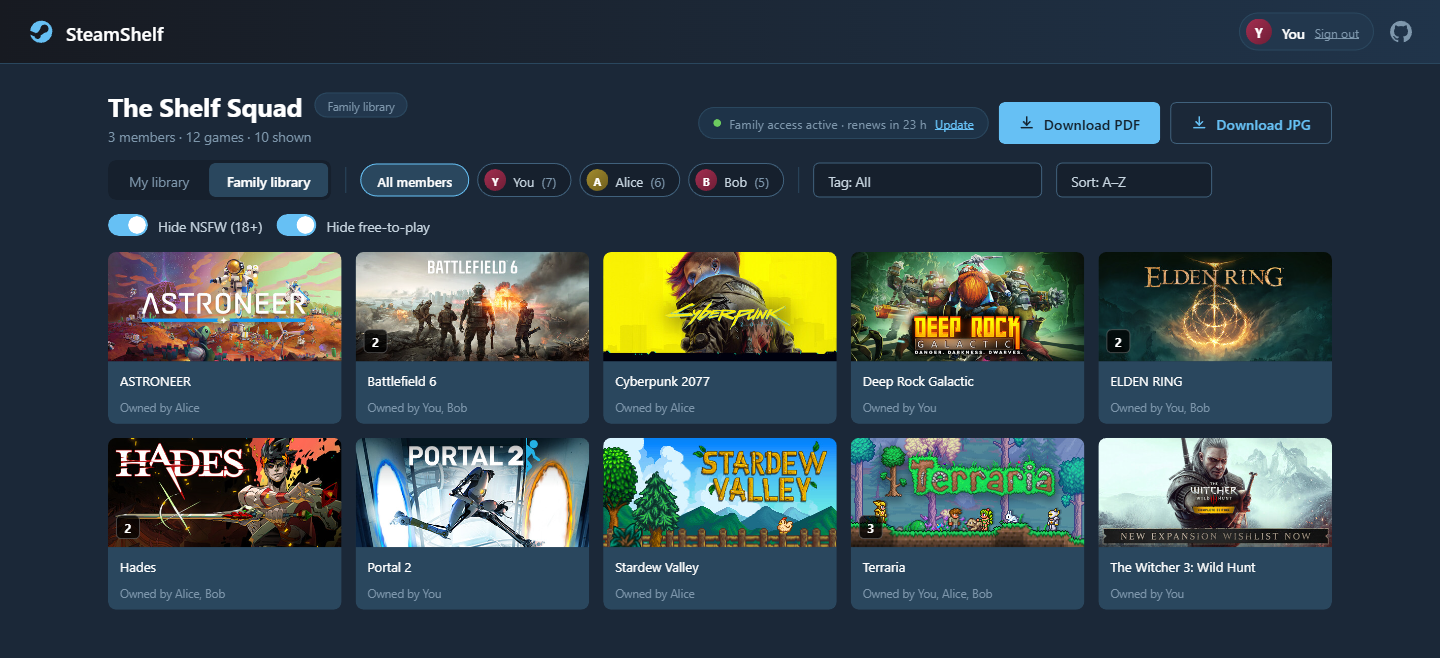
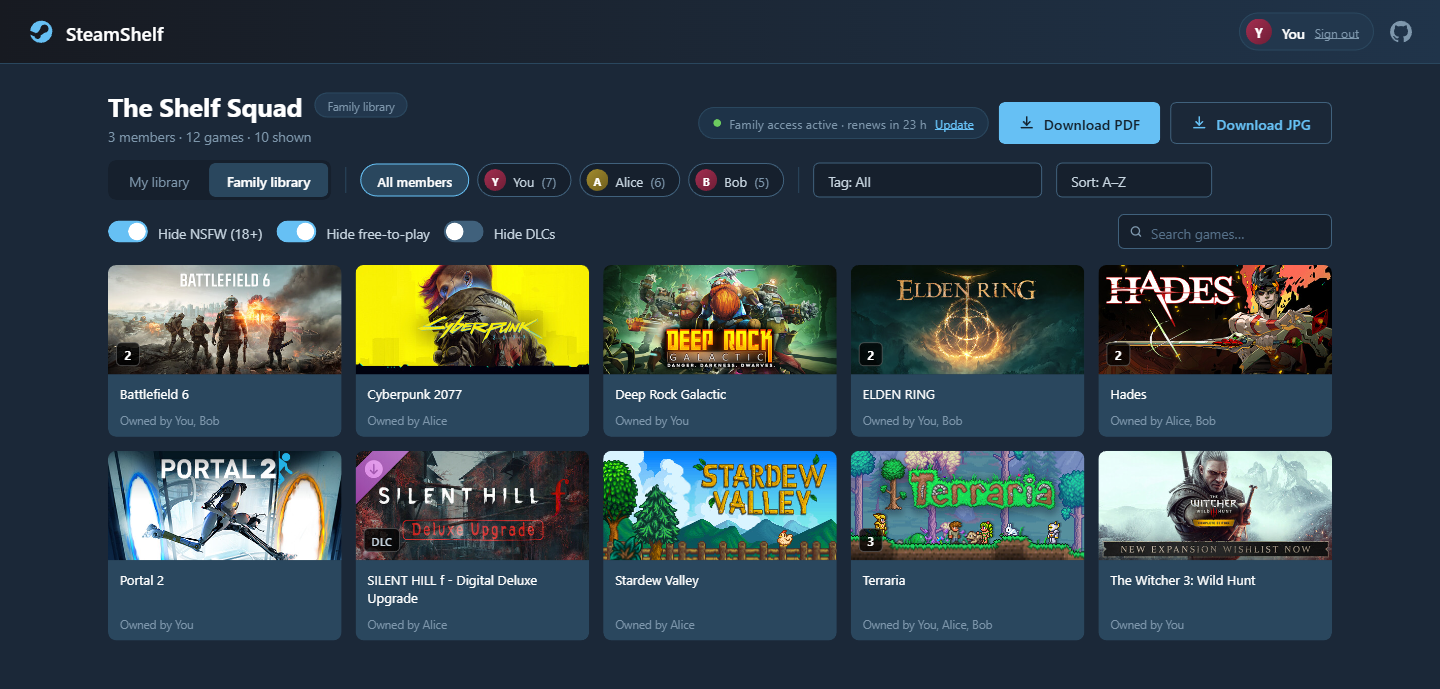
docs: update README screenshot with search bar and DLC toggle

diff --git a/docs/readme-screenshot.md b/docs/readme-screenshot.md
@@ -18,9 +18,11 @@ family data (no real libraries). Procedure:
 2. Open the app in a 1440px-wide viewport, mock `/api/family` (and `/api/games`)
    from the DevTools console with the demo family, and load it.
 
-3. Capture with html2canvas from the console. **Native `<select>` elements render
-   with clipped text in html2canvas** — the `onclone` hook below swaps each one
-   for a styled `<div>` with the selected option's text, which fixes it:
+3. Capture with html2canvas from the console. **Native `<select>` elements and
+   `<input>` placeholders render with clipped text in html2canvas** — the
+   `onclone` hook below swaps selects for styled `<div>`s with the selected
+   option's text (do the same for the `.search input`, using its value or
+   placeholder), which fixes it:
 
    ```js
    const s = document.createElement("script");
